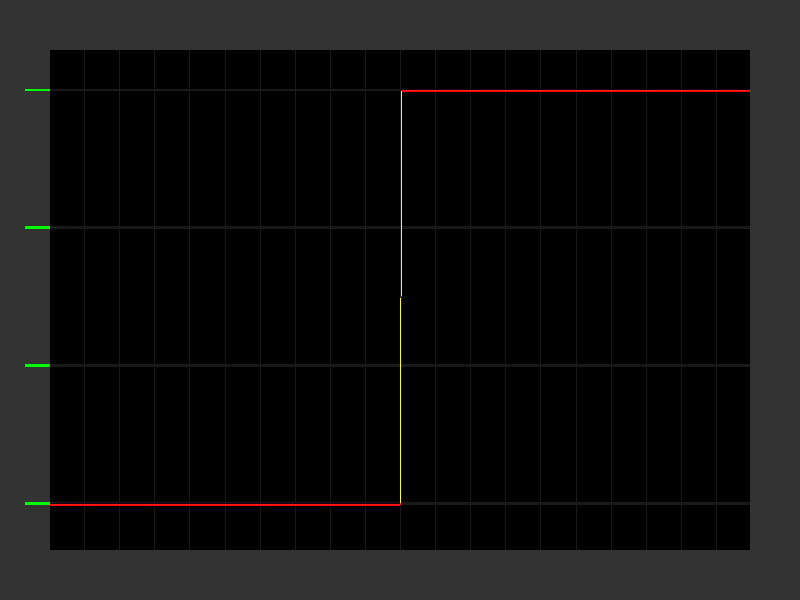
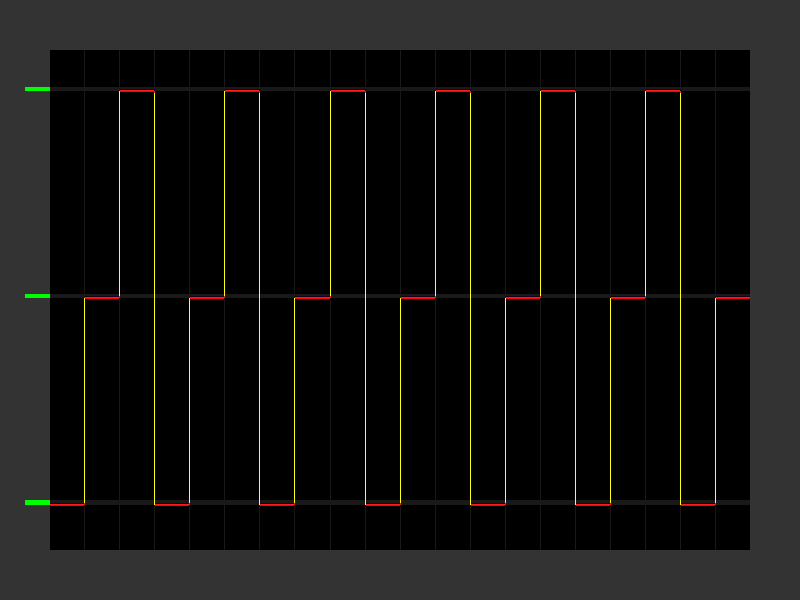
Fixed something

diff --git a/graph_test.c b/graph_test.c
@@ -9,7 +9,7 @@ void testFn(float * buffer, size_t size) {
         float x = (float)i / 1000.f;
         x *= 10;
         //buffer[i] = sinf(x*x) / (x + 1);
-        buffer[i] = (x > 5) ? 3 : 0;
+        buffer[i] = (i / 50) % 3;
     }
 }
 
